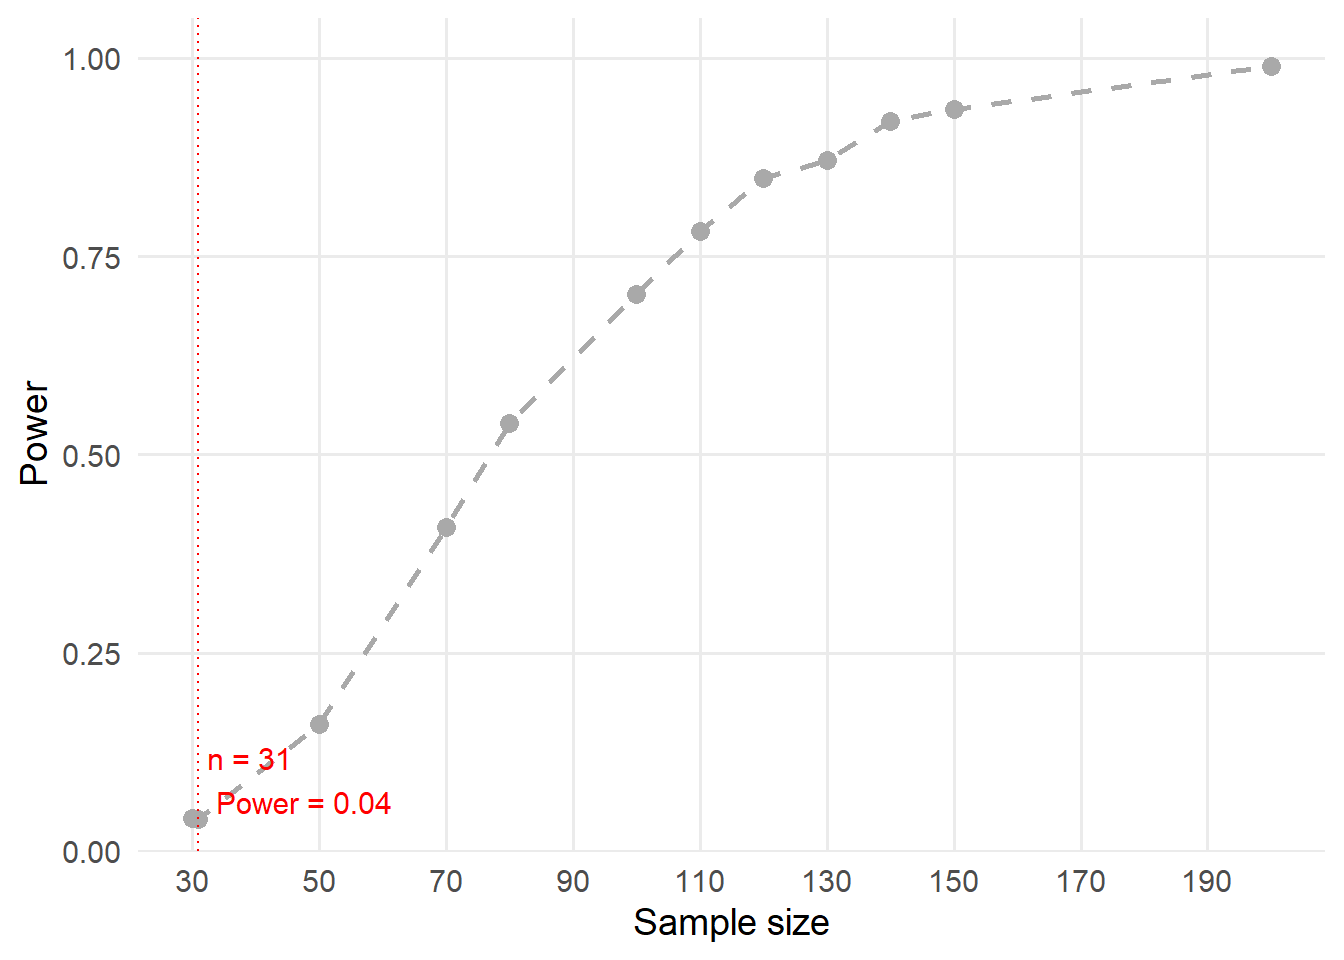
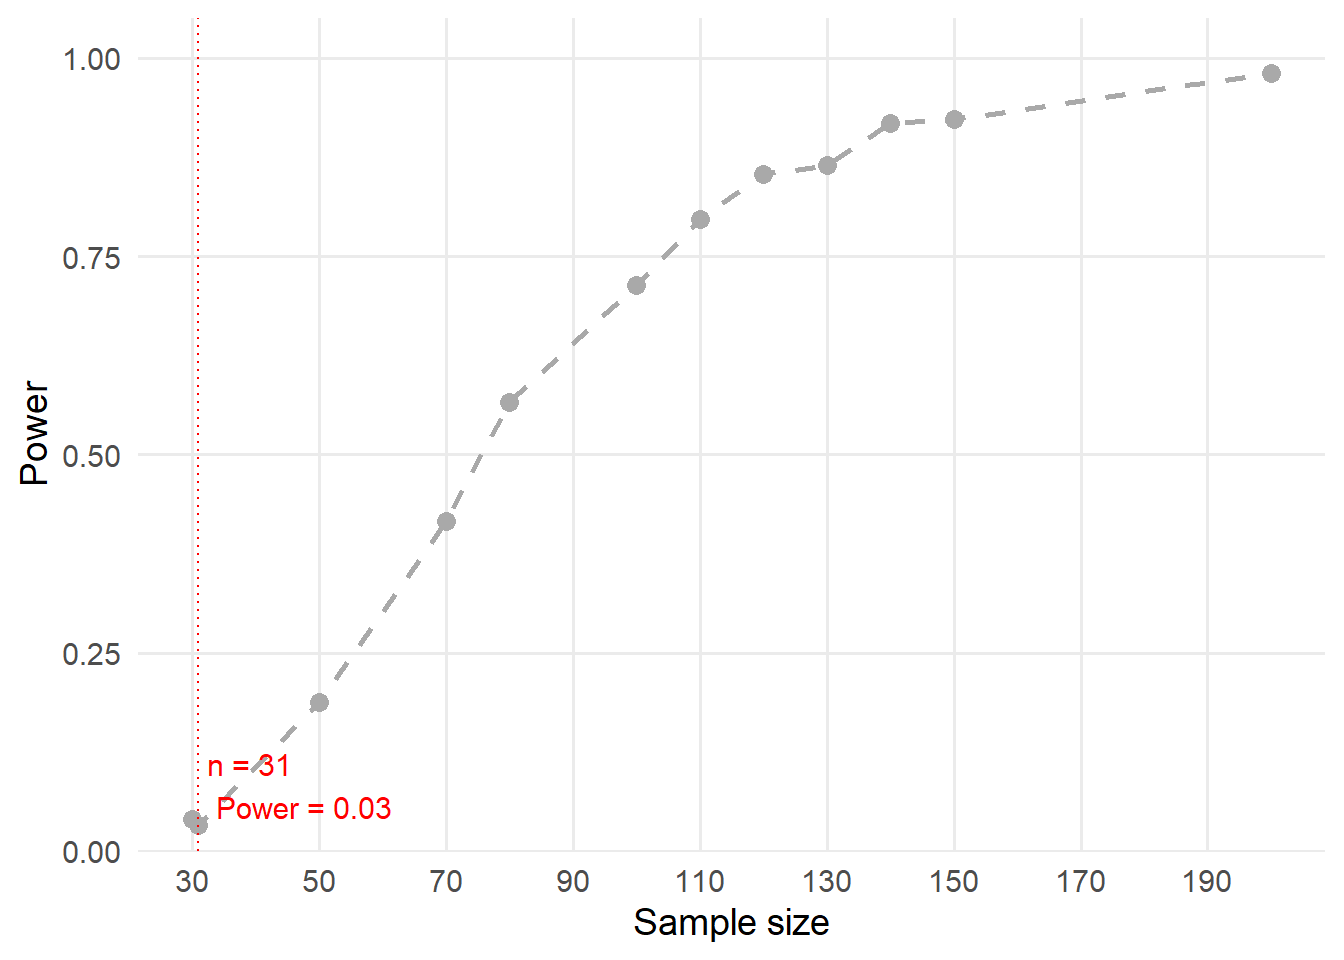
Aggiornamento con Wilcoxon, Spearman, Shapiro

diff --git a/docs/considerazioni.html b/docs/considerazioni.html
@@ -223,24 +223,24 @@ pre > code.sourceCode > span > a:first-child::before { text-decoration: underlin
 <span id="cb1-45"><a href="#cb1-45" aria-hidden="true" tabindex="-1"></a>result</span></code><button title="Copy to Clipboard" class="code-copy-button"><i class="bi"></i></button></pre></div>
 <div class="cell-output cell-output-stdout">
 <pre><code>   SampleSize Power
-1          30 0.041
-2          31 0.040
-3          50 0.160
-4          70 0.408
-5          80 0.540
-6         100 0.702
-7         110 0.782
-8         120 0.849
-9         130 0.871
-10        140 0.920
-11        150 0.936
-12        200 0.989</code></pre>
+1          30 0.040
+2          31 0.033
+3          50 0.188
+4          70 0.416
+5          80 0.566
+6         100 0.713
+7         110 0.797
+8         120 0.853
+9         130 0.865
+10        140 0.918
+11        150 0.923
+12        200 0.981</code></pre>
 </div>
 <div class="sourceCode cell-code" id="cb3"><pre class="sourceCode r code-with-copy"><code class="sourceCode r"><span id="cb3-1"><a href="#cb3-1" aria-hidden="true" tabindex="-1"></a><span class="co"># Calcola la potenza esatta per n = 31</span></span>
 <span id="cb3-2"><a href="#cb3-2" aria-hidden="true" tabindex="-1"></a>exact_power_31 <span class="ot">&lt;-</span> result<span class="sc">$</span>Power[result<span class="sc">$</span>SampleSize <span class="sc">==</span> <span class="dv">31</span>]</span>
 <span id="cb3-3"><a href="#cb3-3" aria-hidden="true" tabindex="-1"></a>exact_power_31</span></code><button title="Copy to Clipboard" class="code-copy-button"><i class="bi"></i></button></pre></div>
 <div class="cell-output cell-output-stdout">
-<pre><code>[1] 0.04</code></pre>
+<pre><code>[1] 0.033</code></pre>
 </div>
 </div>
 <section id="grafico-della-curva-di-potenza" class="level3">
@@ -280,7 +280,7 @@ pre > code.sourceCode > span > a:first-child::before { text-decoration: underlin
 </div>
 </div>
 </div>
-<p>Con una dimensione campionaria attuale di <strong>n = 31</strong>, la probabilità stimata di ottenere effetti statisticamente significativi per tutti e quattro i predittori è pari a <strong>4%</strong>, secondo le simulazioni Monte Carlo effettuate.</p>
+<p>Con una dimensione campionaria attuale di <strong>n = 31</strong>, la probabilità stimata di ottenere effetti statisticamente significativi per tutti e quattro i predittori è pari a <strong>3.3%</strong>, secondo le simulazioni Monte Carlo effettuate.</p>
 <p><a href="autostima.html">← Torna alla pagina precedente</a></p>
 
 
